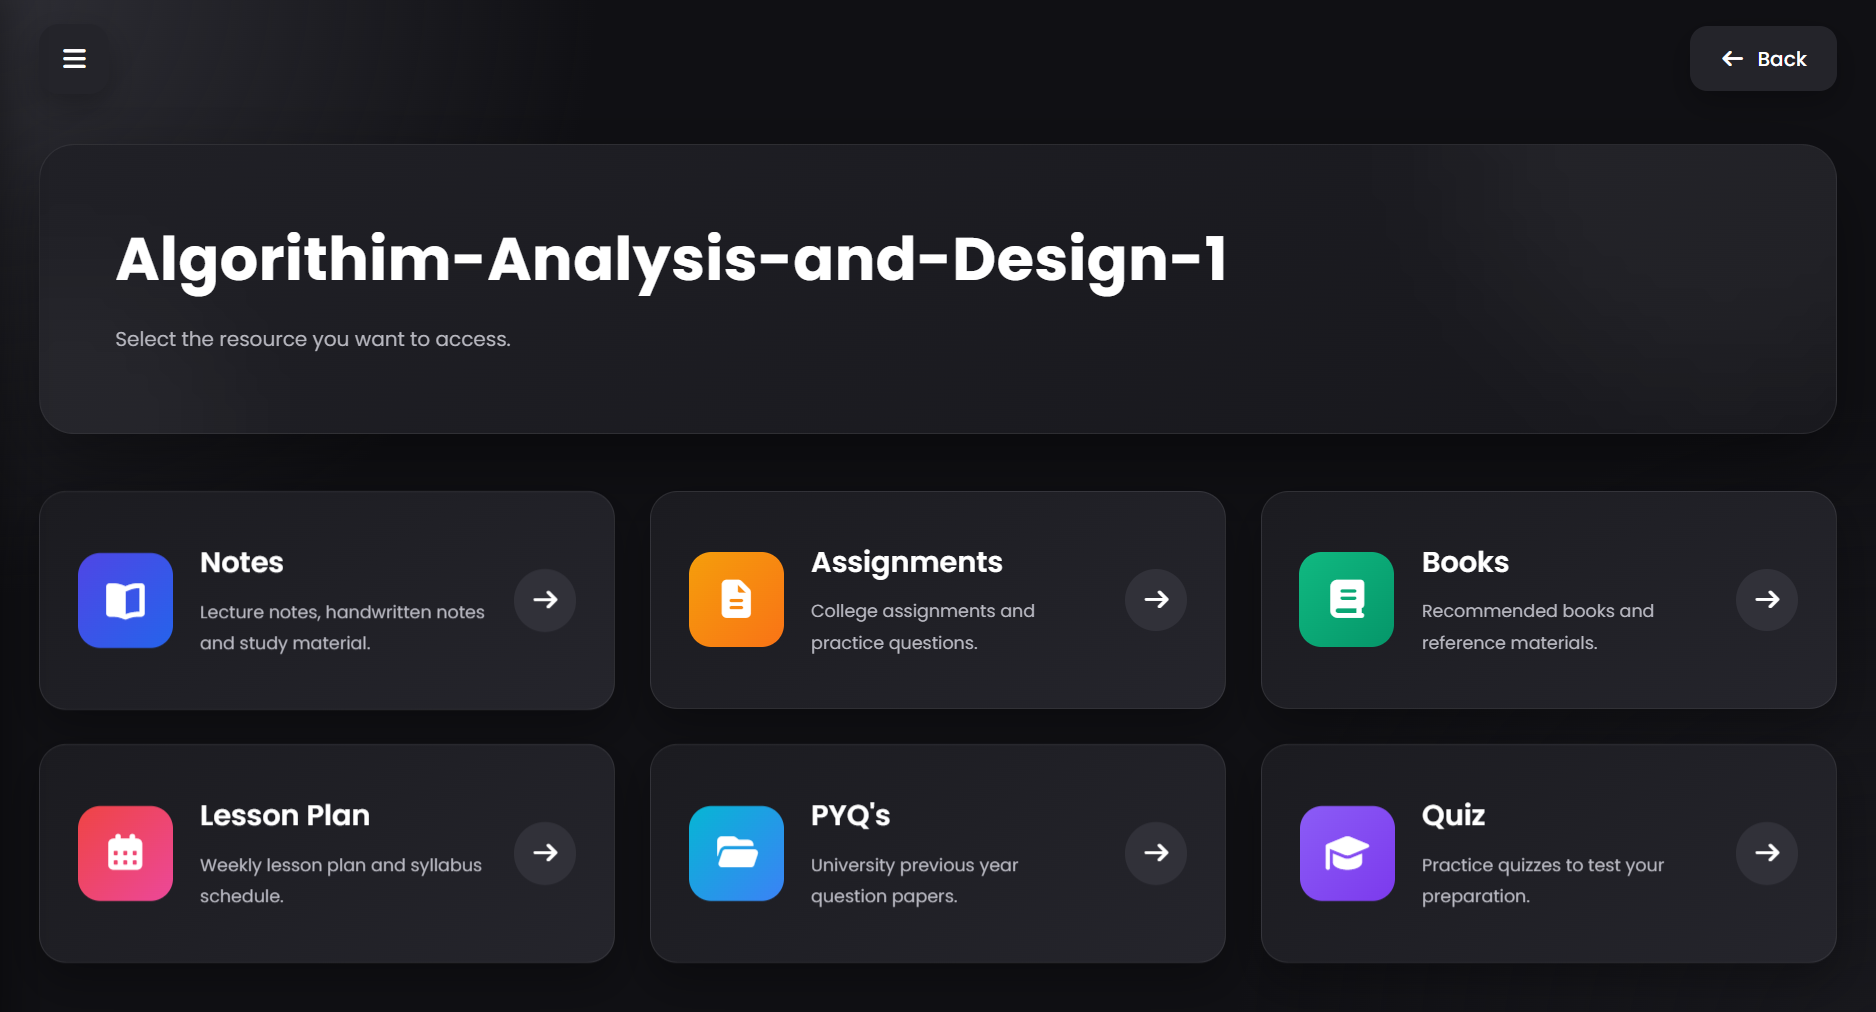
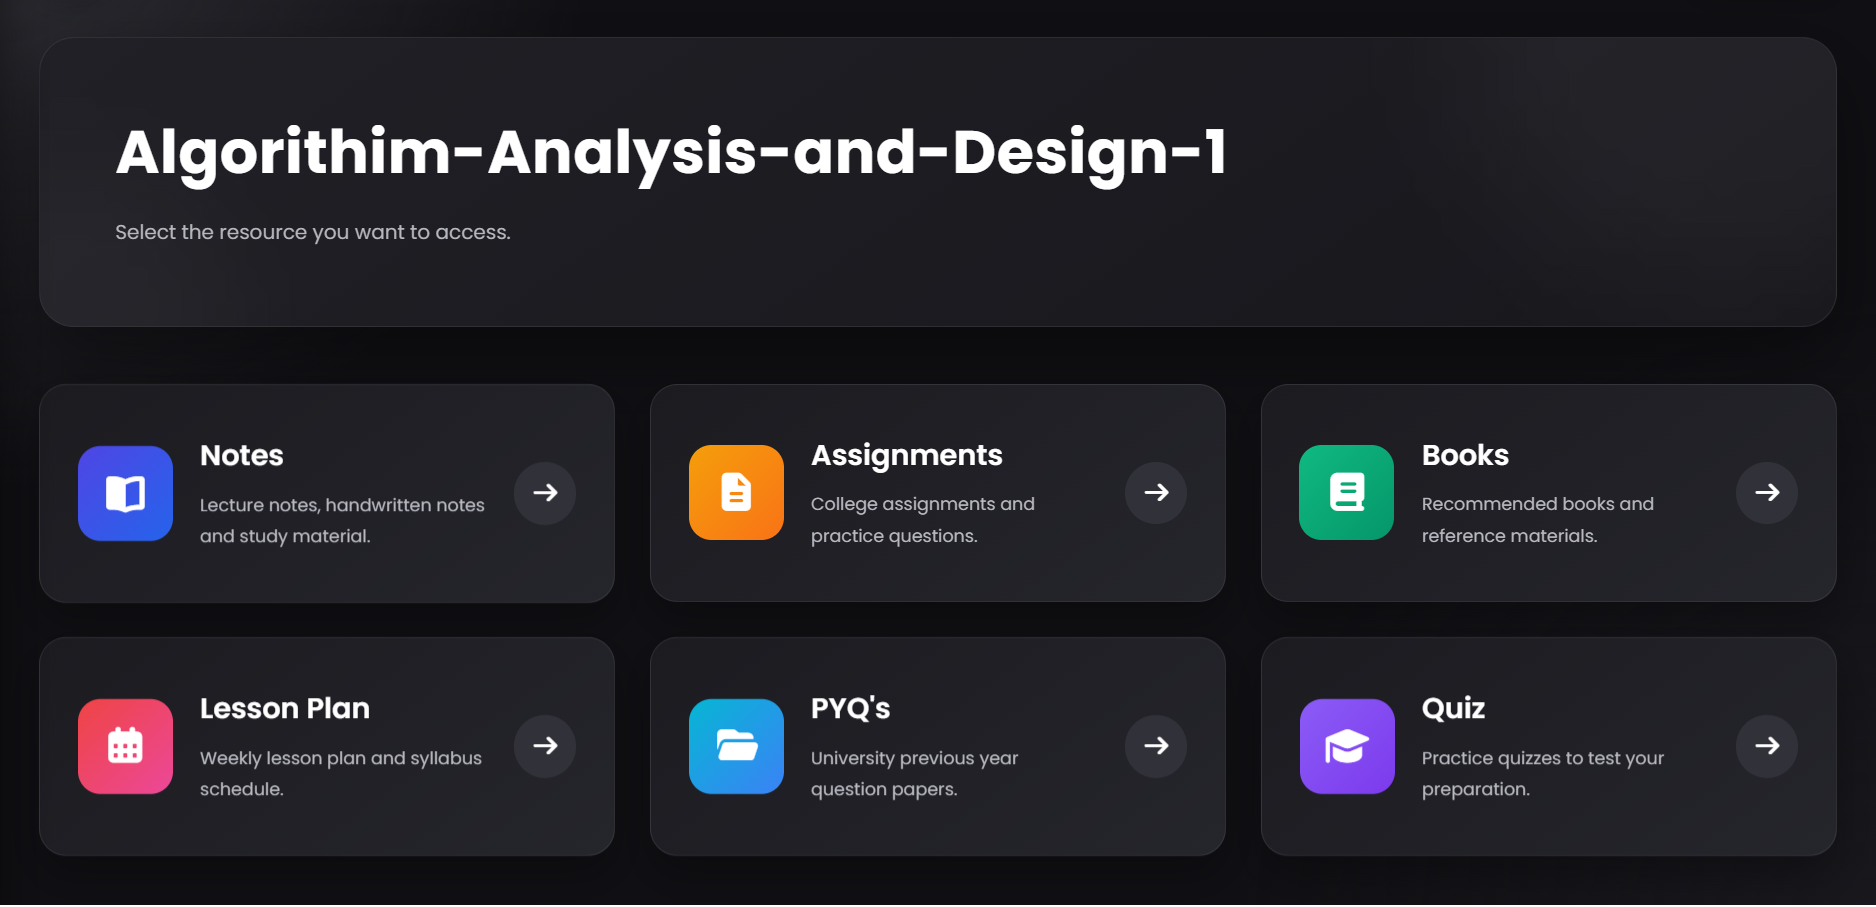
changed landing page

diff --git a/codes/public/css/landing.css b/codes/public/css/landing.css
@@ -244,7 +244,7 @@ nav a:hover{
 }
 .browser-body{
     background:#0e0e0e;
-    padding:15px;
+    padding:10px;
 }
 .browser-body img{
     border-radius:12px;
@@ -253,10 +253,33 @@ nav a:hover{
 
 /* PART 2 */
 .platform{
-    padding:55px 8%;
-    /* background:#070707; */
-    /* background: linear-gradient(90deg, rgb(146, 23, 157), black,rgb(145, 2, 2)); */
+    padding:0 8%;
+    padding-top: 110px;
+    padding-bottom: 55px;
+    padding-right: 60px;
     position:relative;
+}
+
+.gradient4{
+    width:450px;
+    height:450px;
+    background:#e16ffd;
+    top:200px;
+    left:-120px;
+}
+.gradient5{
+    width:500px;
+    height:500px;
+    background:#ff6060;
+    right:-180px;
+    top:180px;
+}
+.gradient6{
+    width:420px;
+    height:420px;
+    background:#856fff;
+    bottom:-160px;
+    left:35%;
 }
 
 .section-head{
@@ -326,24 +349,73 @@ nav a:hover{
 .platform-tags i{
     color:#67d46d;
 }
-
+.platform-right{
+    display:flex;
+    justify-content:center;
+    align-items:center;
+}
+.browser{
+    width:100%;
+    background:#111;
+    border-radius:22px;
+    overflow:hidden;
+    border:1px solid rgba(255,255,255,.08);
+    box-shadow:0 25px 60px rgba(0,0,0,.45);
+}
+.browser-top{
+    height:55px;
+    display:flex;
+    justify-content:space-between;
+    align-items:center;
+    padding:0 20px;
+    background:#1b1b1b;
+}
+.browser-top p{
+    color:#bcbcbc;
+    font-size:14px;
+}
+.browser-body{
+    background:#0b0b0b;
+}
+.dots{
+    display:flex;
+    gap:8px;
+}
+.dots span{
+    width:12px;
+    height:12px;
+    border-radius:50%;
+}
+.dots span:nth-child(1){
+    background:#ff5f57;
+}
+.dots span:nth-child(2){
+    background:#febc2e;
+}
+.dots span:nth-child(3){
+    background:#28c840;
+}
 .slider{
     position:relative;
     width:100%;
+    height:300px;
     overflow:hidden;
-    border-radius:22px;
+    border-radius:16px;
+    background:#000;
 }
 .slides{
     position:relative;
+    width:100%;
     height:100%;
 }
 .slides img{
     position:absolute;
-    inset:0;
+    top:0;
+    left:0;
     width:100%;
     opacity:0;
     transform:scale(.96);
-    transition:.8s;
+    transition:opacity .8s ease,transform .8s ease;
 }
 .slides img.active{
     opacity:1;
@@ -351,21 +423,19 @@ nav a:hover{
 }
 
 /* About */
-
 .about{
-    padding:140px 8%;
+    padding:120px 8%;
     display:grid;
     grid-template-columns:1fr 1fr;
     gap:90px;
     align-items:center;
     background:#050505;
 }
-
 .mini-title{
     display:inline-block;
     color:#67d46d;
     letter-spacing:3px;
-    font-size:14px;
+    font-size:20px;
     font-weight:700;
     margin-bottom:20px;
 }
@@ -373,7 +443,7 @@ nav a:hover{
 .about-left h2{
     font-size:78px;
     line-height:1;
-    margin-bottom:30px;
+    margin-bottom:20px;
 }
 
 .about-left p{
@@ -421,22 +491,19 @@ nav a:hover{
 /* Features */
 
 .features{
-    padding:140px 8%;
+    padding:120px 8%;
     background:#070707;
 }
-
 .feature-showcase{
     display:grid;
     grid-template-columns:1fr 1.2fr;
     gap:80px;
     align-items:center;
 }
-
 .feature-left{
     position:relative;
     min-height:420px;
 }
-
 .feature-text{
     position:absolute;
     inset:0;
@@ -445,41 +512,34 @@ nav a:hover{
     transform:translateY(30px);
     transition:.6s;
 }
-
 .feature-text.active{
     opacity:1;
     visibility:visible;
     transform:translateY(0);
 }
-
 .feature-text span{
     font-size:72px;
     color:#67d46d;
     font-weight:800;
 }
-
 .feature-text h2{
     font-size:46px;
     margin:20px 0;
 }
-
 .feature-text p{
     color:#b8b8b8;
     line-height:32px;
     margin-bottom:30px;
 }
-
 .feature-text ul{
     list-style:none;
 }
-
 .feature-text li{
     display:flex;
     align-items:center;
     gap:12px;
     margin-bottom:18px;
 }
-
 .feature-text i{
     color:#67d46d;
 }
@@ -487,26 +547,22 @@ nav a:hover{
 .feature-browser{
     transform:none;
 }
-
 .feature-browser:hover{
     transform:translateY(-10px);
 }
-
 .feature-right{
     display:flex;
     flex-direction:column;
     align-items:center;
 }
-
 .feature-image{
     position:absolute;
-    inset:0;
+    /* inset:0; */
     width:100%;
-    opacity:0;
+    /* opacity:0; */
     transform:scale(.96);
     transition:.8s;
 }
-
 .feature-image.active{
     opacity:1;
     transform:scale(1);
@@ -715,7 +771,6 @@ footer{
     gap:15px;
     margin-top:30px;
 }
-
 .socials a{
     width:48px;
     height:48px;
@@ -727,13 +782,14 @@ footer{
     border:1px solid rgba(255,255,255,.08);
     transition:.35s;
 }
-
 .socials a:hover{
     background:#67d46d;
     color:#050505;
     transform:translateY(-5px);
 }
-
+.socials > :last-child:hover {
+    background: linear-gradient(purple,pink,red,yellow)
+}
 .footer-links h3{
     margin-bottom:22px;
     font-size:22px;
@@ -873,17 +929,14 @@ footer{
 }
 
 @media(max-width:768px){
-
     header{
         flex-direction:column;
         gap:25px;
     }
-
     nav{
         flex-wrap:wrap;
         justify-content:center;
     }
-
     .hero{
         padding-top:170px;
     }
@@ -913,8 +966,12 @@ footer{
 
     .browser{
         transform:none;
+        margin-top: -60px;
     }
 
+    .browser-body{
+        height: 160px;
+    }
     .section-head h2{
         font-size:38px;
     }
@@ -922,6 +979,12 @@ footer{
     .platform-left h2,
     .about-left h2{
         font-size:48px;
+    }
+    .platform-right{
+        margin-top: 35px;
+    }
+    .platform-tags span{
+        padding: 14px 14px;
     }
 
     .feature-text h2{

diff --git a/codes/public/js/landing.js b/codes/public/js/landing.js
@@ -1,9 +1,6 @@
 // Navbar
-
 const header = document.querySelector("header");
-
 window.addEventListener("scroll", () => {
-
     if (window.scrollY > 80) {
         header.style.background = "rgba(5,5,5,.85)";
         header.style.borderBottom = "1px solid rgba(255,255,255,.08)";
@@ -11,39 +8,27 @@ window.addEventListener("scroll", () => {
         header.style.background = "rgba(5,5,5,.45)";
         header.style.borderBottom = "1px solid rgba(255,255,255,.06)";
     }
-
 });
 
 // Platform Slider
+const platformImages=document.querySelectorAll(".slides img");
+let platformIndex=0;
 
-const platformImages = document.querySelectorAll(".slides img");
+platformImages[0].classList.add("active");
 
-let platformIndex = 0;
-
-setInterval(() => {
-
+setInterval(()=>{
     platformImages[platformIndex].classList.remove("active");
-
-    platformIndex++;
-
-    if (platformIndex >= platformImages.length) {
-        platformIndex = 0;
-    }
-
+    platformIndex=(platformIndex+1)%platformImages.length;
     platformImages[platformIndex].classList.add("active");
-
-}, 3500);
+},3500);
 
 // Feature Slider
-
 const featureTexts = document.querySelectorAll(".feature-text");
 const featureImages = document.querySelectorAll(".feature-image");
 const dots = document.querySelectorAll(".dot");
 
 let featureIndex = 0;
-
 function featureSlider() {
-
     featureTexts[featureIndex].classList.remove("active");
     featureImages[featureIndex].classList.remove("active");
     dots[featureIndex].classList.remove("active");
